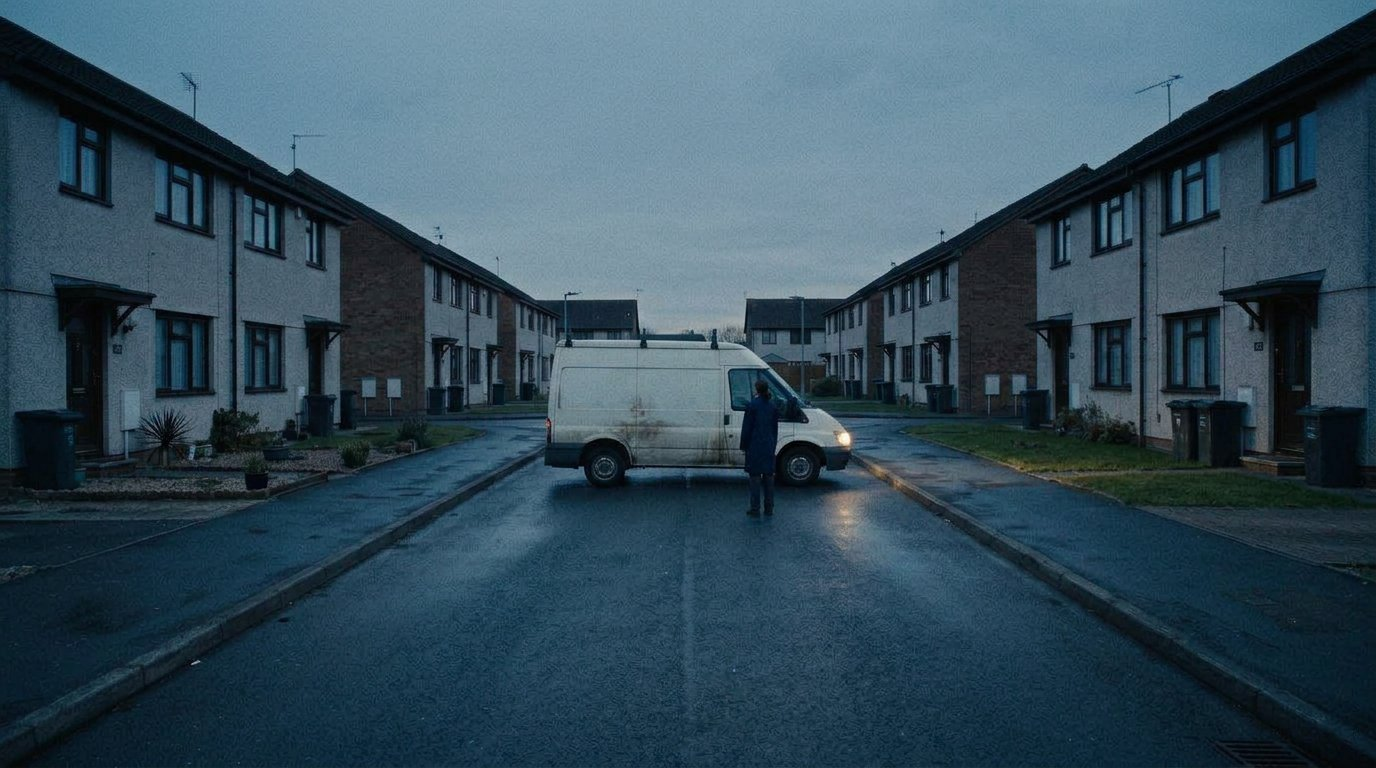
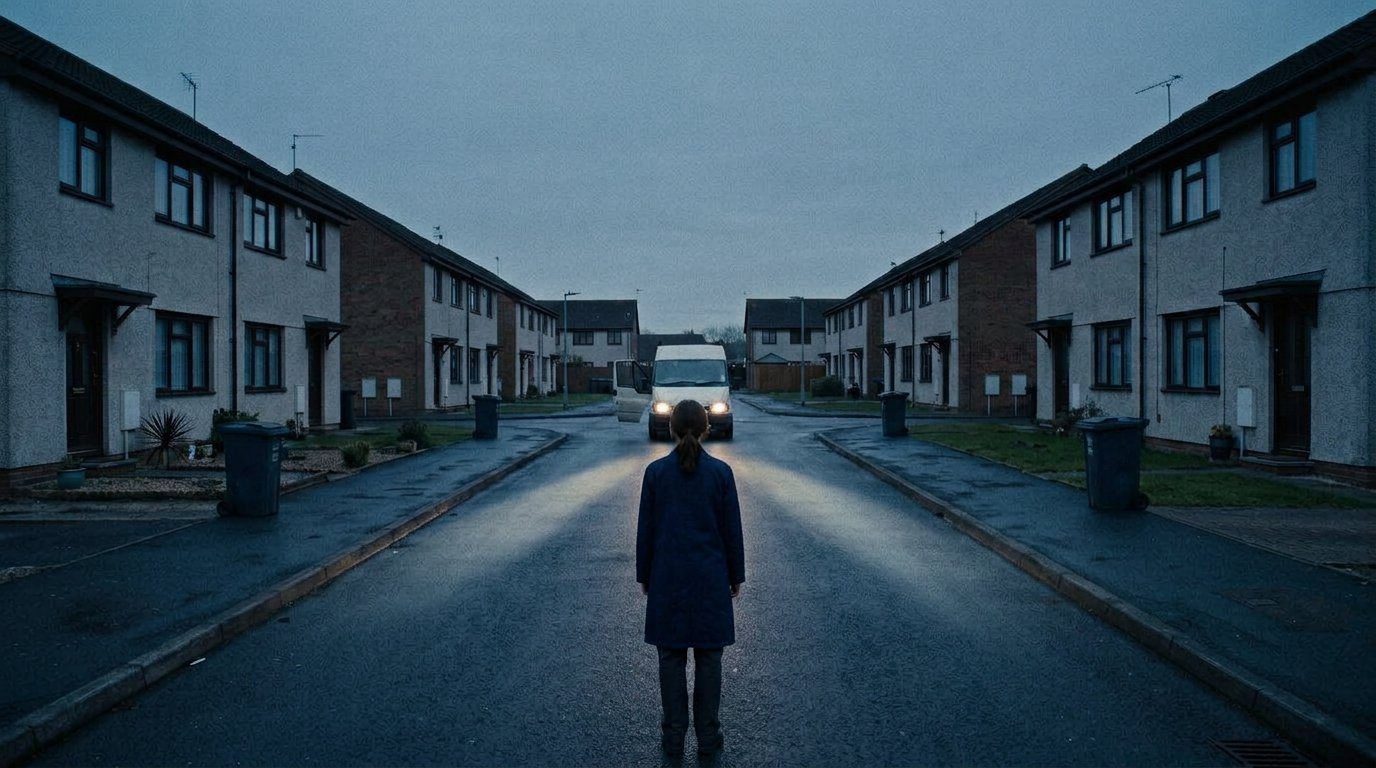
EP4 scene 4: re-shoot 12 and 32 onto one van geography; dog in the cab, not the driver's door

diff --git a/docs/rapture/canon.md b/docs/rapture/canon.md
@@ -184,9 +184,10 @@ frame, matted into the 16:9 frame rather than cropped clean. Nina is in her navy
 for the first time; Alan keeps the beige fleece and the Tesco bag for life. In both cab
 interiors (2 and 34) and at the bus in 32, Nina is at the wheel on the far side (right-hand
 drive), the front passenger seat is empty, and Alan and the dog sit on the bench behind it on the
-passenger side, facing forward. Check Nina's face and coat, Alan's bag, the passenger-side seating, the bus's battered rear doors, the four places at
-the table in shot 21, and the poster spelling in shot 24 against the fragment in shot 7 before
-approving any of them.
+passenger side, facing forward. Check Nina's face and coat, Alan's bag, the passenger-side seating,
+the bus's battered rear doors and its nose-on orientation across 3, 4, 5, 11, 12 and 32, the four
+places at the table in shot 21, and the poster spelling in shot 24 against the fragment in shot 7
+before approving any of them.
 
 ## Boundaries not silently resolved
 
@@ -194,7 +195,8 @@ approving any of them.
   why a laid table for four stops her. The boy inferred by shot 15 and the boy in the school
   photograph in shot 29 are uncast and are deliberately not Max; the vision's `PTOR` fragment and
   the correctly spelled poster in shot 24 are held side by side and never reconciled. The dog that
-  barks off shot 13 is not hers. The scene keeps thirty identical houses as written; no number was
+  barks off shot 13 is not hers. Max has no identity sheet at all, so the boy caught mid-blink in shot
+  29 cannot drift into being him. The scene keeps thirty identical houses as written; no number was
   invented.
 - Max: flashbacks only, alive and unreachable. Episode eight says he knows the
   fields; no present-day reunion or delivery mechanism has been invented.
